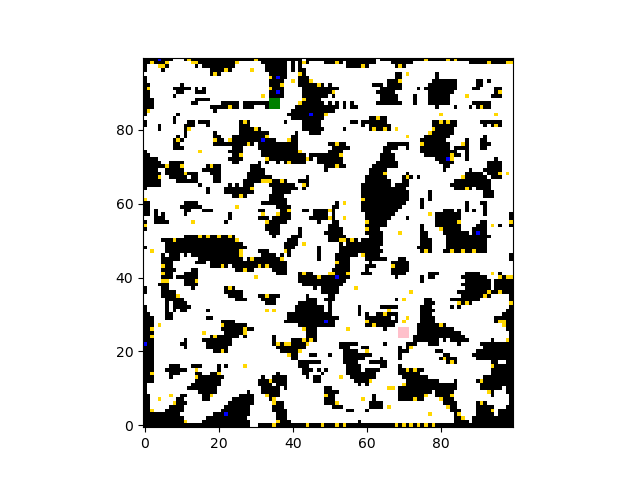
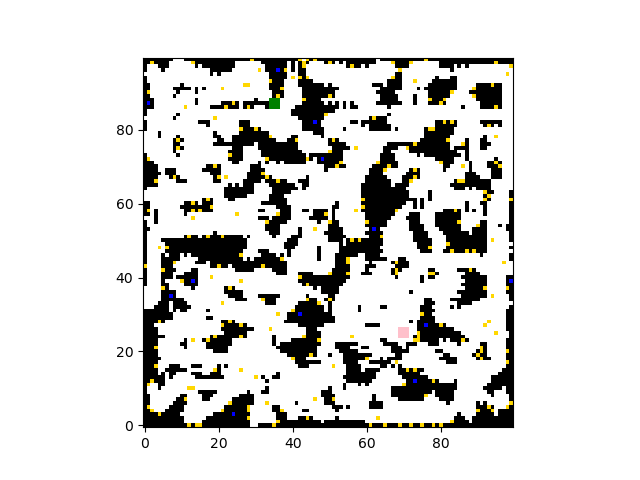
verified spawn to exit path w/ BFS

diff --git a/src/pygame_test.py b/src/pygame_test.py
@@ -23,7 +23,7 @@ gold = pygame.transform.scale(pygame.image.load("assets/gold.png"), (32, 32))
 diamond = pygame.transform.scale(pygame.image.load("assets/diamond.png"), (32, 32))
 enemy = pygame.transform.scale(pygame.image.load("assets/enemy.png"), (32, 32)) 
 player = pygame.transform.scale(pygame.image.load("assets/player.png"), (32, 32))
-
+level_exit = pygame.transform.scale(pygame.image.load("assets/exit.png"), (32, 32))
 
 def main():
 
@@ -42,29 +42,32 @@ def main():
     starting_map_info = maps.create_complete_map(args.height, args.width, args.density, args.seed, args.iterations, args.prob_item, args.prob_enemy)
     game_map = starting_map_info[0]
     player_pos = starting_map_info[1]
+    level_exit_pos = starting_map_info[2]
 
+    print(player_pos)
+    print(level_exit_pos)
+    print(player_pos == level_exit_pos)
 
+    i = 1
 
+    while player_pos == level_exit_pos:
+        print("Changing time", i)
+        i += 1
+        starting_map_info = maps.create_complete_map(args.height, args.width, args.density + 1, args.seed, args.iterations - 1, args.prob_item, args.prob_enemy)
+        game_map = starting_map_info[0]
+        player_pos = starting_map_info[1]
+        level_exit_pos = starting_map_info[2]
 
     clock = pygame.time.Clock()
 
     pygame.init()
 
-    pygame.display.set_caption("Mine On!")
+    pygame.display.set_caption(f"Mine On! - Map Density: {starting_map_info[3]}, Seed: {starting_map_info[4]}, Iterations: {starting_map_info[5]}")
 
 
     screen = pygame.display.set_mode(WINDOW_SIZE)
 
     display = pygame.Surface((SCREEN_WIDTH / 2, SCREEN_HEIGHT / 2))
-
-
-    #player = pygame.Rect((300, 250, 50, 50))
-
-
-    # TODO: look up rendering images to screen
-    # TODO: pixel set, stone, cave floor, ore
-    # TODO: player / enemy pixel?
-    # TODO: load CA MAP, then generate to screen
 
     print(player_pos[0] - int(SCREEN_WIDTH_BLOCKS / 2), player_pos[0], player_pos[0] + int(SCREEN_WIDTH_BLOCKS / 2))
     print(player_pos[1] - int(SCREEN_HEIGHT_BLOCKS / 2), player_pos[1], player_pos[1] + int(SCREEN_HEIGHT_BLOCKS / 2))
@@ -77,17 +80,12 @@ def main():
 
         screen.fill((86, 86, 86))
 
-        #pygame.draw.rect(screen, (255, 0, 0), player)
 
         player_x = player_pos[0]
         player_y = player_pos[1]
 
         min_row_pos = player_x - int(SCREEN_WIDTH_BLOCKS / 2) 
         min_col_pos = player_y - int(SCREEN_HEIGHT_BLOCKS / 2) 
-
-
-        #max_row_pos = player_spawn[0] + int(SCREEN_WIDTH_BLOCKS / 2) 
-        #max_col_pos = player_spawn[1] + int(SCREEN_HEIGHT_BLOCKS / 2)
 
 
         for i in range(player_pos[0] - int(SCREEN_WIDTH_BLOCKS / 2), player_pos[0] + int(SCREEN_WIDTH_BLOCKS / 2)):
@@ -109,28 +107,9 @@ def main():
                 elif game_map[i, j] == 69:
                     screen.blit(dirt, ((i - min_row_pos) * BLOCK_WIDTH, (j - min_col_pos) * BLOCK_WIDTH))
                     screen.blit(player, ((i - min_row_pos) * BLOCK_WIDTH, (j - min_col_pos) * BLOCK_WIDTH))
-
-        """
-        for i in range(game_map.shape[0]):
-            for j in range(game_map.shape[1]):
-                if game_map[i, j] == 0:
-                    screen.blit(dirt, (i * BLOCK_WIDTH, j * BLOCK_WIDTH))
-                elif game_map[i, j] == 1:
-                    screen.blit(stone, (i * BLOCK_WIDTH, j * BLOCK_WIDTH))
-                elif game_map[i, j] == 2:
-                    screen.blit(gold, (i * BLOCK_WIDTH, j * BLOCK_WIDTH))
-                elif game_map[i, j] == 3:
-                    screen.blit(dirt, (i * BLOCK_WIDTH, j * BLOCK_WIDTH))
-                    screen.blit(enemy, (i * BLOCK_WIDTH, j * BLOCK_WIDTH))
-                elif game_map[i, j] == 4:
-                    screen.blit(diamond, (i * BLOCK_WIDTH, j * BLOCK_WIDTH))
-                elif game_map[i, j] == 69:
-                    screen.blit(dirt, (i * BLOCK_WIDTH, j * BLOCK_WIDTH))
-                    screen.blit(player, (i * BLOCK_WIDTH, j * BLOCK_WIDTH))
-        """
-        #screen.blit(dirt, (10, 10))
-        #screen.blit(dirt, (26, 10))
-
+                elif game_map[i, j] == 400:
+                    screen.blit(dirt, ((i - min_row_pos) * BLOCK_WIDTH, (j - min_col_pos) * BLOCK_WIDTH))
+                    screen.blit(level_exit, ((i - min_row_pos) * BLOCK_WIDTH, (j - min_col_pos) * BLOCK_WIDTH))
 
         key = pygame.key.get_pressed()
 
@@ -167,7 +146,6 @@ def main():
                 run = False
 
         pygame.display.update()
-        #pygame.display.flip()
 
     pygame.quit()
 

diff --git a/src/helpers/map_helpers.py b/src/helpers/map_helpers.py
@@ -301,6 +301,60 @@ def create_adjacency_matrix(grid):
 
 
 
+def verify_path(grid, start, finish):
+
+    # get an index matrix for the grid
+    ind_mat = create_index_matrix(grid)
+
+    grid_shape = grid.shape
+    num_rows = grid_shape[0]
+    num_cols = grid_shape[1]
+    vis_mat = np.zeros(shape = (num_rows, num_cols), dtype = int)
+
+    # get starting cell index
+    cell_idx = ind_mat[start[0], start[1]]
+
+    # start BFS
+    q = queue.Queue()
+    q.put(cell_idx)
+
+    while q.qsize() > 0:
+
+        u = q.get()
+
+        # get current indices
+        current_x = u // num_rows 
+        current_y = u % num_cols 
+
+        # update visited
+        vis_mat[current_x, current_y] = 1
+
+        if (current_x == finish[0]) and (current_y == finish[1]):
+            return True
+
+        # left (x - 1, y)
+        if in_bounds(current_x - 1, current_y, grid_shape) and vis_mat[current_x - 1, current_y] == 0:
+            if (grid[current_x - 1, current_y] in [0, 3]) and (ind_mat[current_x - 1, current_y] not in q.queue):
+                q.put(ind_mat[current_x - 1, current_y])
+
+        # right (x + 1, y)
+        if in_bounds(current_x + 1, current_y, grid_shape) and vis_mat[current_x + 1, current_y] == 0:
+            if (grid[current_x + 1, current_y] in [0, 3]) and (ind_mat[current_x + 1, current_y] not in q.queue):
+                q.put(ind_mat[current_x + 1, current_y])
+
+        # up (x, y + 1)
+        if in_bounds(current_x, current_y + 1, grid_shape) and vis_mat[current_x, current_y + 1] == 0:
+            if (grid[current_x, current_y + 1] in [0, 3]) and (ind_mat[current_x, current_y + 1] not in q.queue):
+                q.put(ind_mat[current_x, current_y + 1])
+
+        # down (x, y - 1)
+        if in_bounds(current_x, current_y - 1, grid_shape) and vis_mat[current_x, current_y - 1] == 0:
+            if (grid[current_x, current_y - 1] in [0, 3]) and (ind_mat[current_x, current_y - 1] not in q.queue):
+                q.put(ind_mat[current_x, current_y - 1])
+
+    return False
+
+
 def find_room_coordinates(grid, animation_index, density, seed, animate_flag=True):
 
     grid_to_mod = grid.copy()
@@ -323,7 +377,7 @@ def find_room_coordinates(grid, animation_index, density, seed, animate_flag=Tru
             #print(f"In row: {row}, col: {col}")
 
             # if blank space, and not visited start bfs
-            if cell_val == 0 and vis_mat[cell_idx // num_rows, cell_idx // num_cols] == 0:
+            if cell_val == 0 and vis_mat[cell_idx // num_rows, cell_idx % num_cols] == 0:
                 
                 #print(f"In cell: {row}, {col}... value: {cell_val}... visited {vis_mat[cell_idx // num_rows, cell_idx // num_cols]}")
 
@@ -590,8 +644,15 @@ def create_complete_map(height, width, density, seed, iterations, prob_item, pro
     # find and add spawn and exit point
     spawn_point = find_specific_room(all_rooms, 35, new_map.shape, "high", "low")
     exit_point = find_specific_room(all_rooms, 35, new_map.shape, "low", "high")
+
+    # check if valid path from spawn to level exit
+    valid_points = verify_path(modified_map[0], [spawn_point[0], spawn_point[1]], [exit_point[0], exit_point[1]])
+
+    if valid_points == False:
+        return create_complete_map(height, width, density - 1, seed + 1, iterations - 1, prob_item, prob_enemy)
+
     modified_map[0][spawn_point[0], spawn_point[1]] = 69
     modified_map[0][exit_point[0], exit_point[1]] = 400
 
     # return map
-    return [modified_map[0], [spawn_point[0], spawn_point[1]]]
+    return [modified_map[0], [spawn_point[0], spawn_point[1]], [exit_point[0], exit_point[1]], density, seed, iterations]

diff --git a/src/simple_map_spawn_exit.py b/src/simple_map_spawn_exit.py
@@ -33,8 +33,10 @@ def main():
     spawn_point = maps.find_specific_room(all_rooms, 35, new_map.shape, "high", "low")
     exit_point = maps.find_specific_room(all_rooms, 35, new_map.shape, "low", "high")
 
-    #modified_map[0][spawn_point[0], spawn_point[1]] = 69
-    #modified_map[0][exit_point[0], exit_point[1]] = 400
+    valid_points = maps.verify_path(modified_map[0], [spawn_point[0], spawn_point[1]], [exit_point[0], exit_point[1]])
+    print(valid_points)
+
+
 
     for i in range(spawn_point[0] - 1, spawn_point[0] + 2):
         for j in range(spawn_point[1] - 1, spawn_point[1] + 2):
